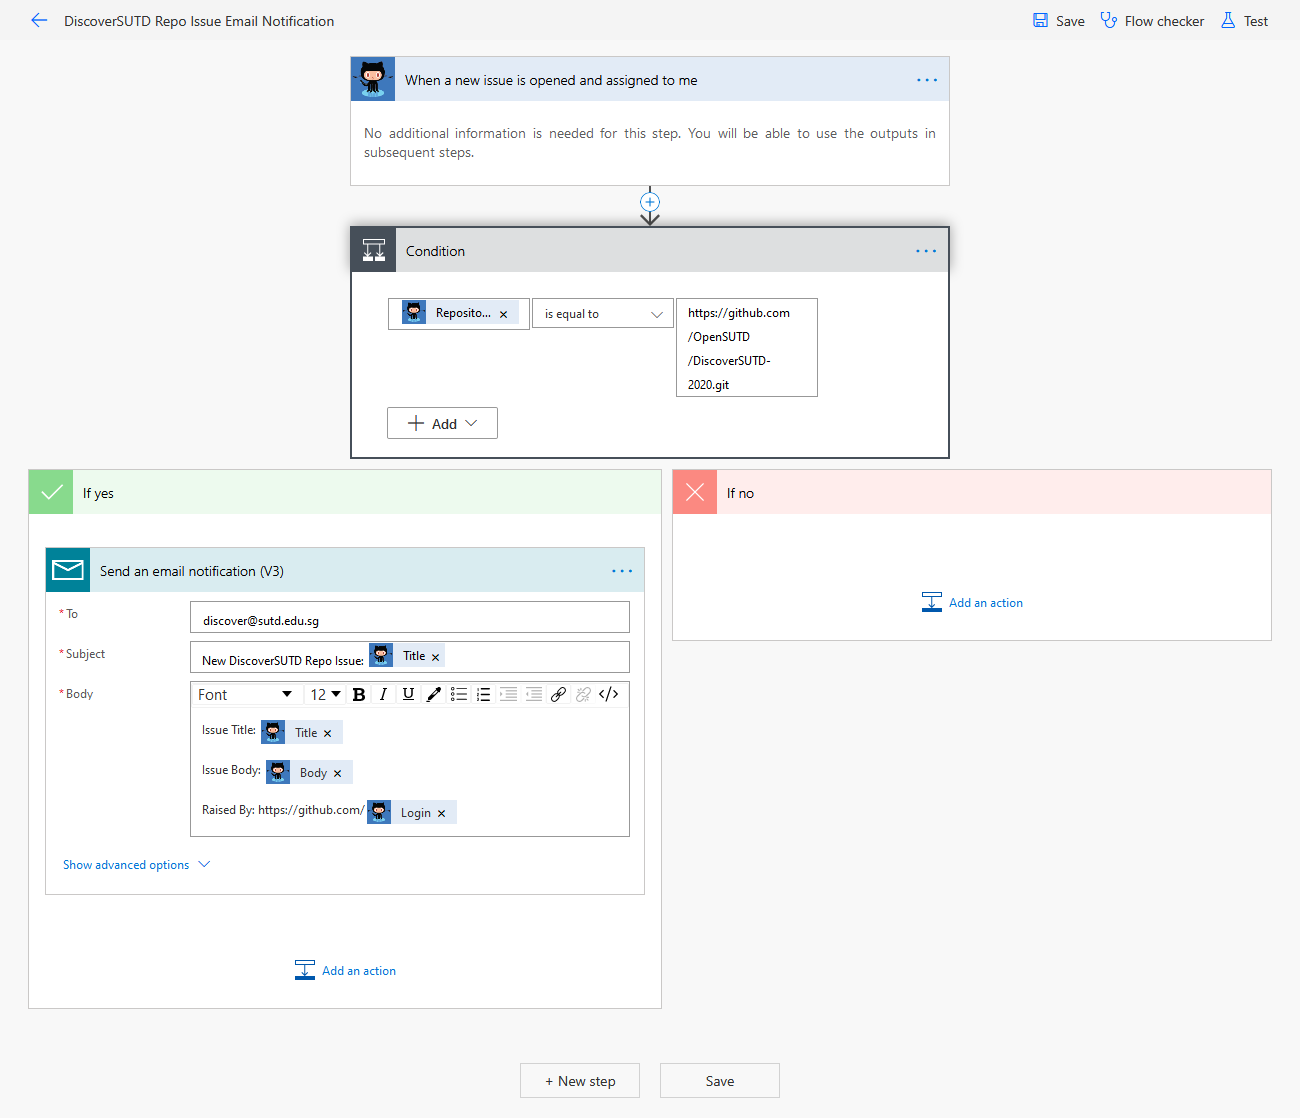
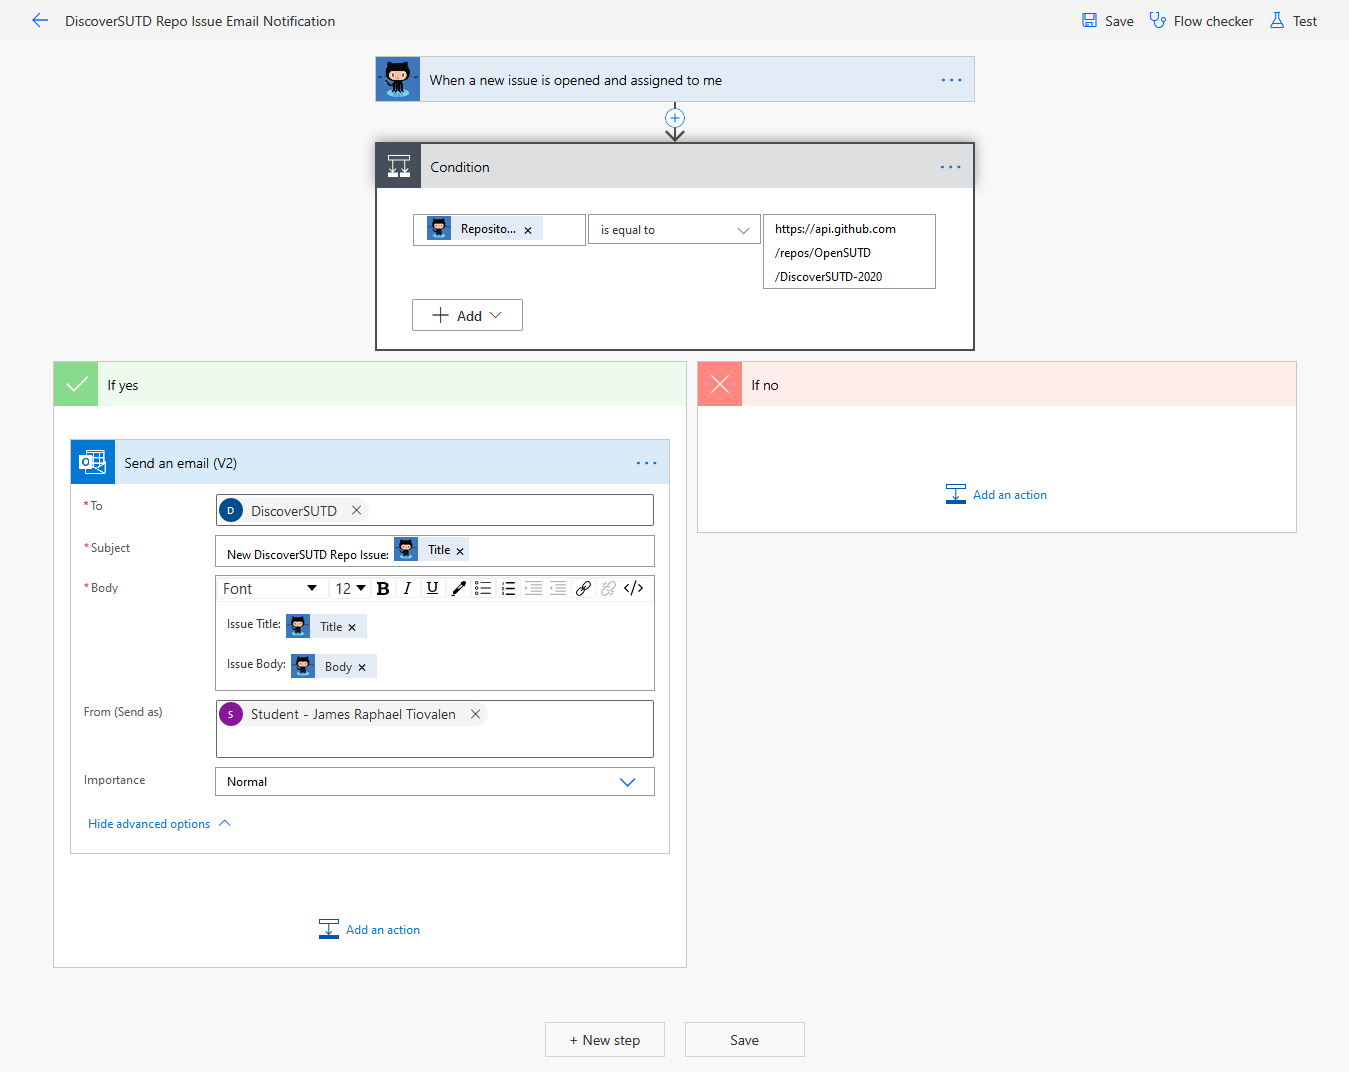
Update workflow schematics

diff --git a/README.md b/README.md
@@ -34,7 +34,7 @@ Our objectives:
 The general workflow is as follows:
 
 1. Submit a proposal by issuing a GitHub Issue [here](https://github.com/OpenSUTD/DiscoverSUTD-2020/issues/new/choose). You are recommended to choose one of the Issue Templates provided there.
-2. Our custom Microsoft Power Automate [Flow](assets/planning/workflow.png) will be fired and our team will be notified of the issue via our main DiscoverSUTD email.
+2. Our custom Microsoft Power Automate [Flow](assets/planning/workflow.png) will be automatically fired and our team will be notified of the issue and its information via our main DiscoverSUTD group email.
 3. Someone from our team will reply to your issue and review it for approval.
 4. Once the details are reviewed and cleared, you will get a notification.
 5. Depending on whether you’re proposing a session for an event or making a suggestion for improvement, the workflow will then diverge and become tailored to the specific issue.
